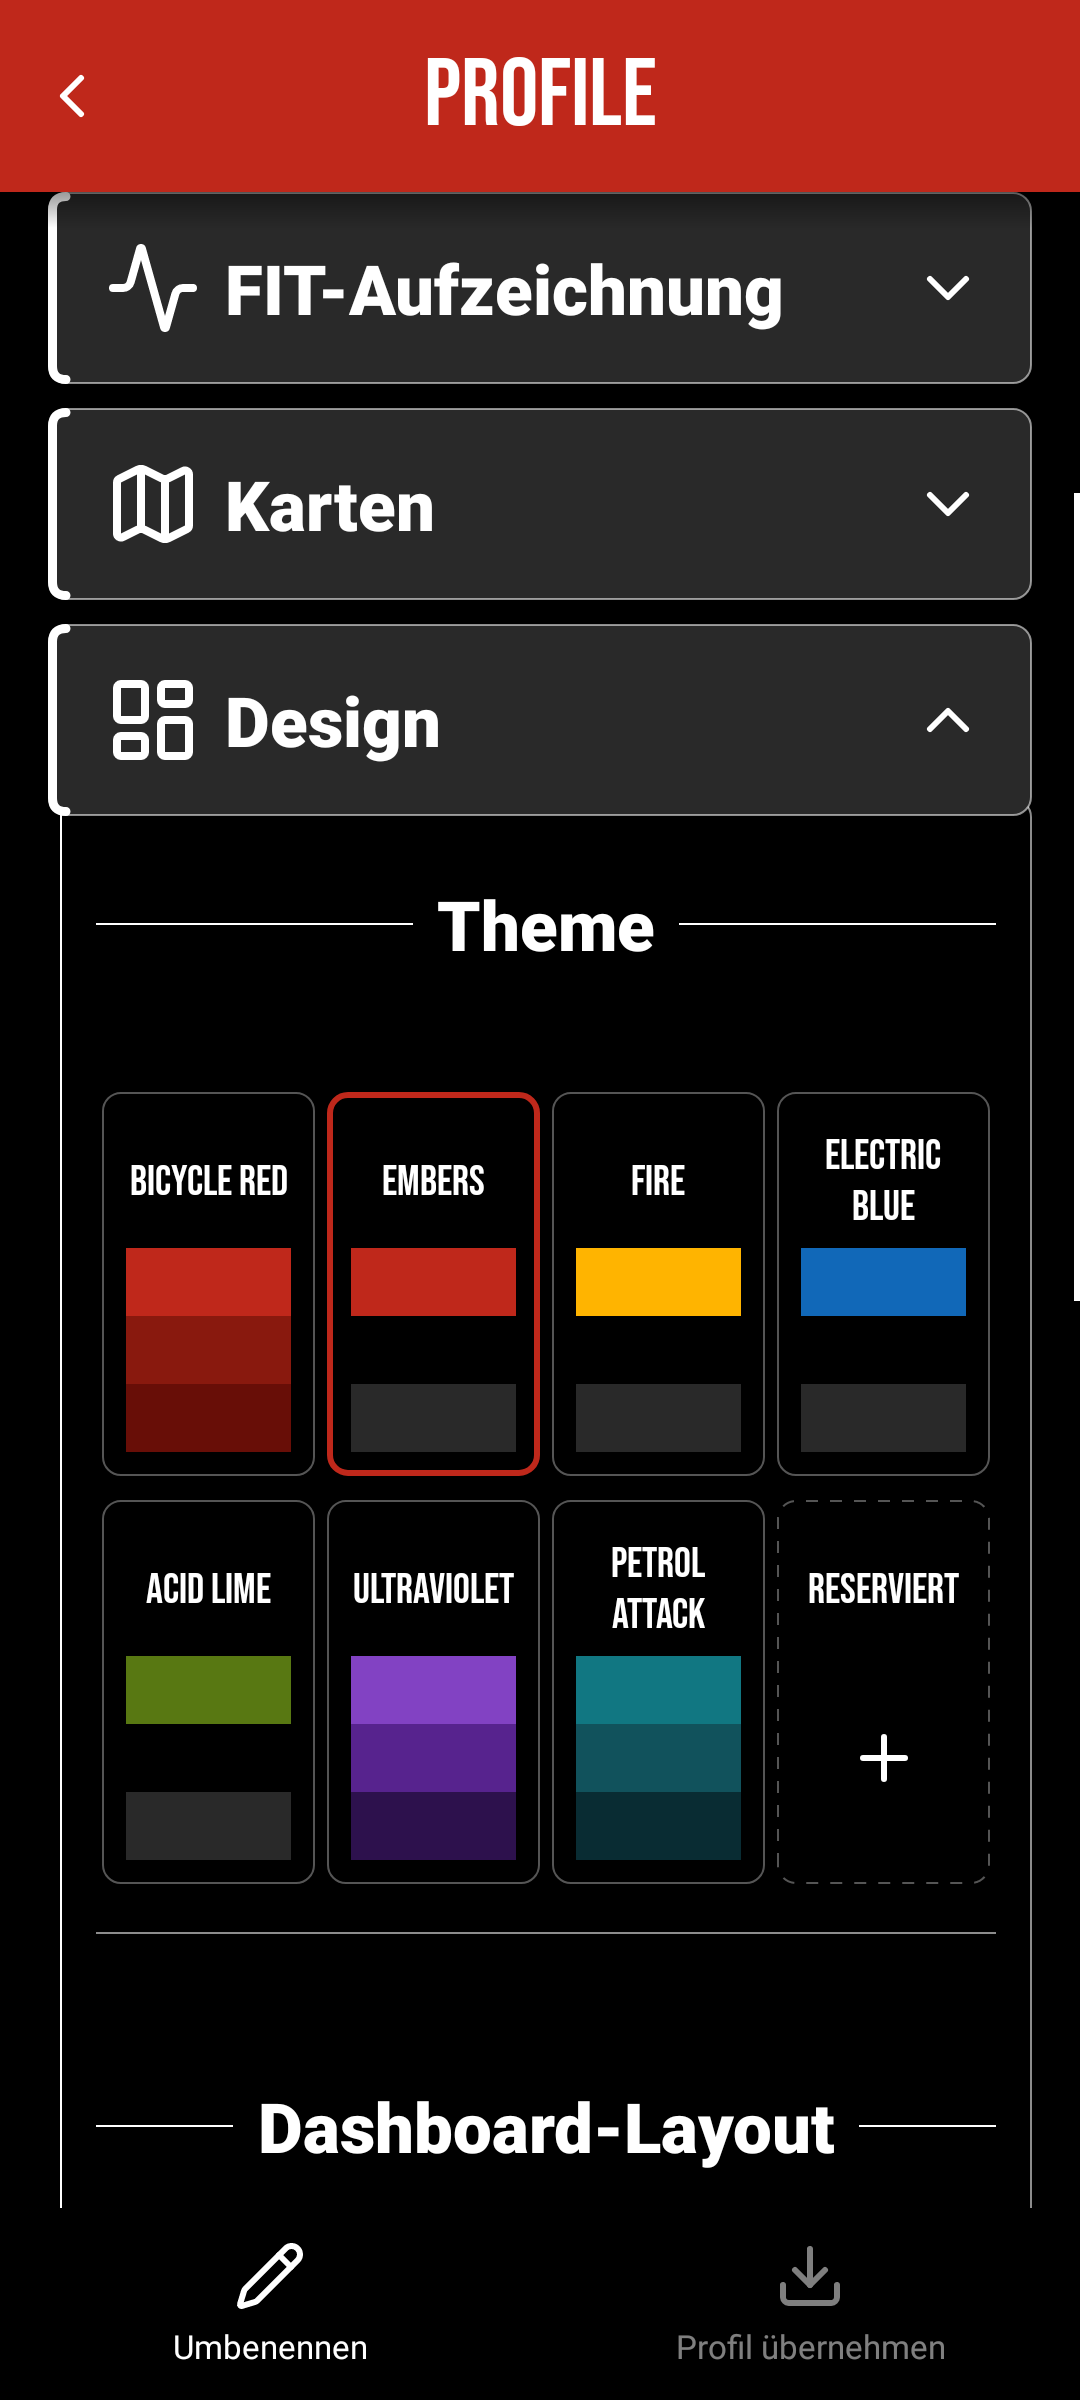
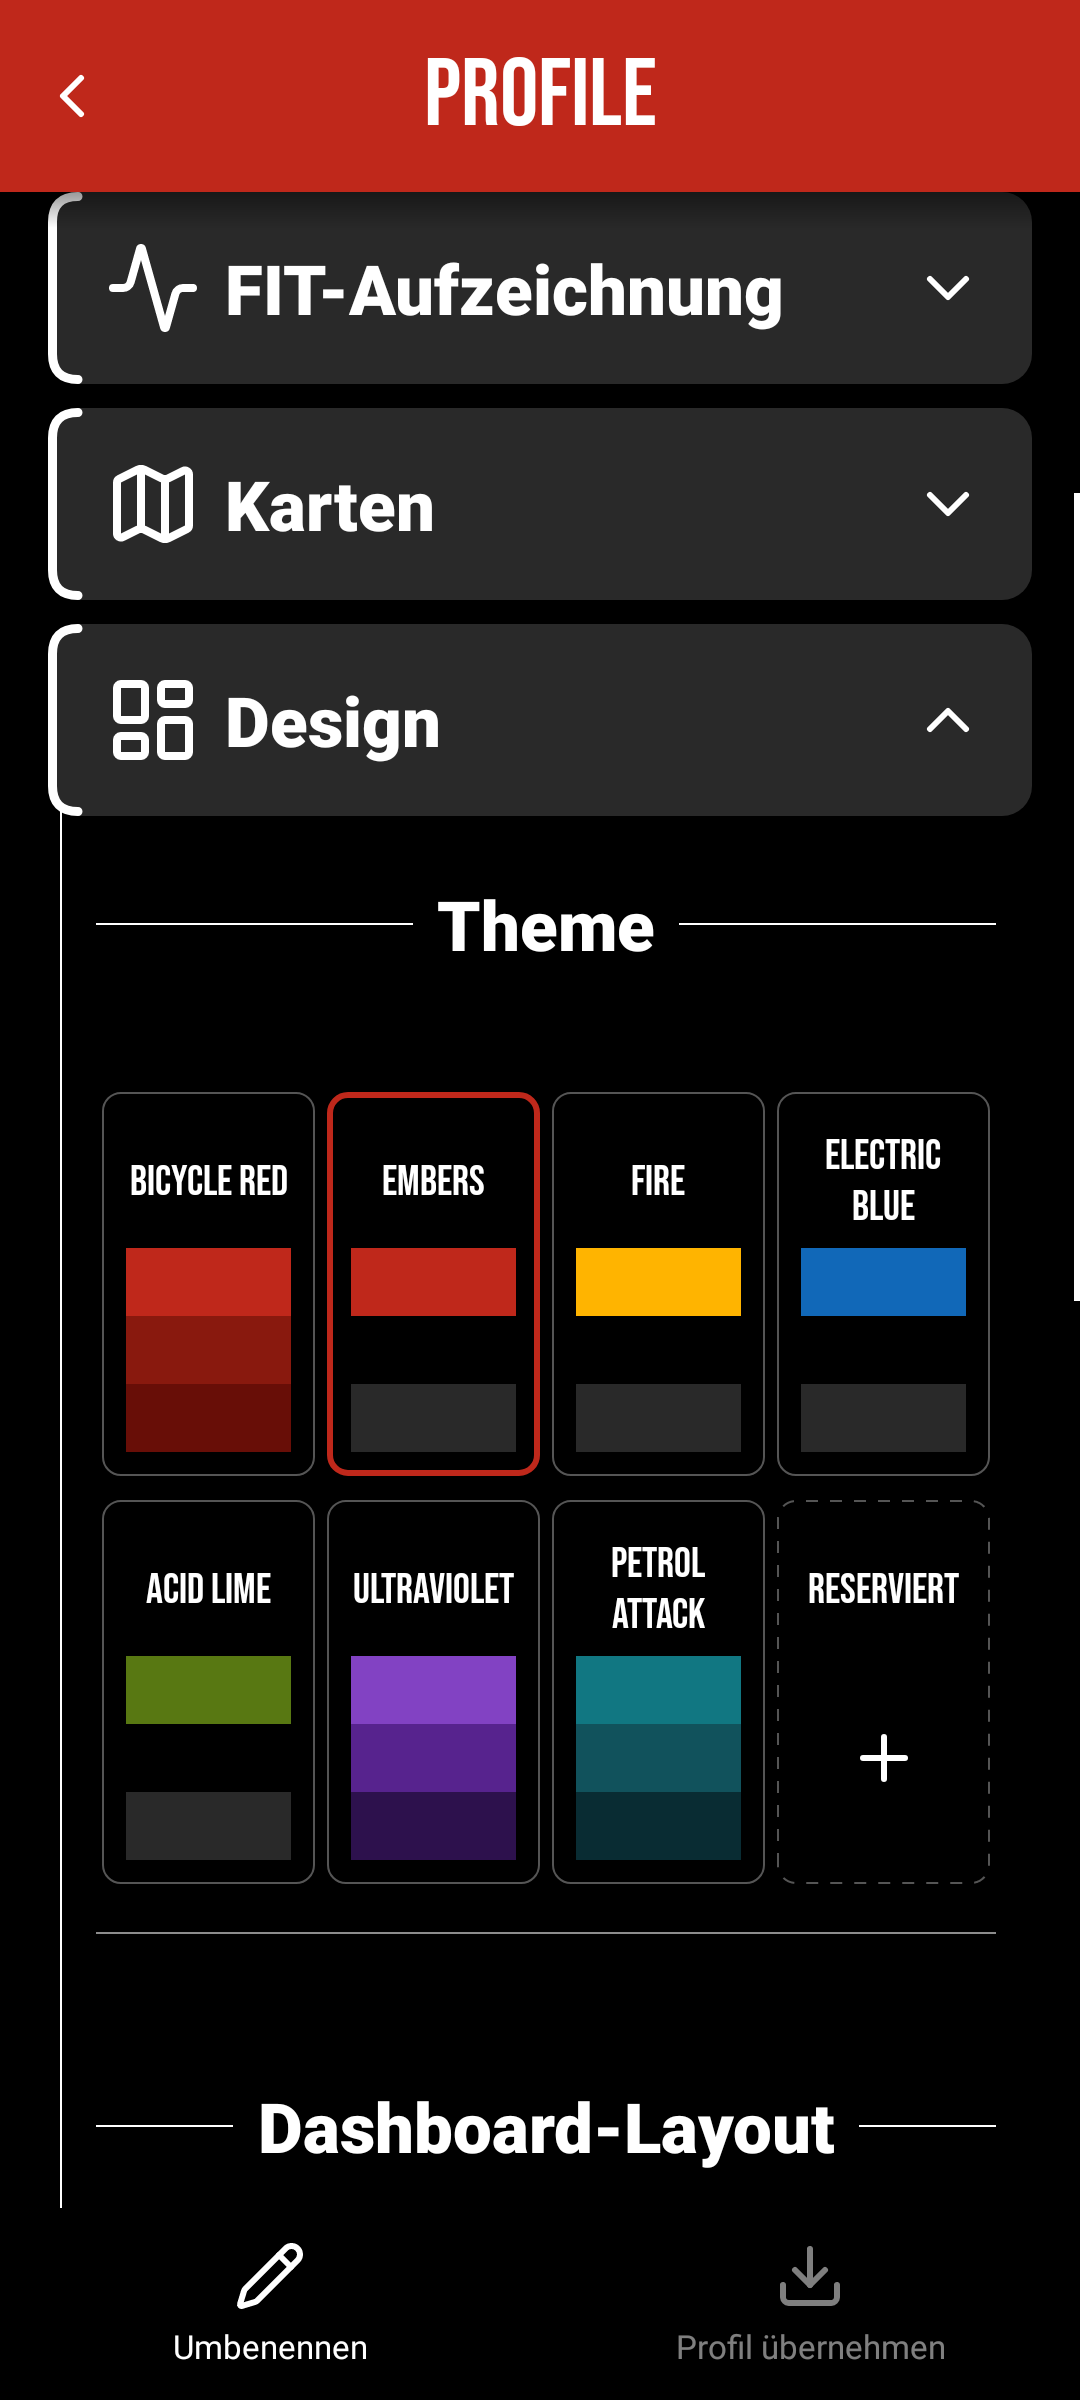
Refine profile accordion contours and simplify Indoor and map labels

Changed region(s): [[0.0306, 0.1562, 0.0917, 0.1875]]

diff --git a/app/src/main/java/de/bcycle/app/ProfileAccordion.kt b/app/src/main/java/de/bcycle/app/ProfileAccordion.kt
@@ -1,7 +1,6 @@
 package de.bcycle.app
 
 import android.content.Context
-import android.graphics.drawable.GradientDrawable
 import android.view.Gravity
 import android.view.View
 import android.view.ViewGroup
@@ -19,7 +18,6 @@ internal class ProfileAccordion(context:Context,themes:ThemeManager,title:String
     val header=LinearLayout(context)
     var isOpen=initiallyOpen;private set
     private fun dp(n:Int)=BicycleDesign.dp(context,n)
-    private fun borderColor(color:Int)=(color and 0x00ffffff) or ((android.graphics.Color.alpha(color)*BicycleDesign.dividerAlpha).toInt() shl 24)
     init {
         orientation=VERTICAL;tag="profile_group_$key"
         header.apply {
@@ -49,8 +47,8 @@ internal class ProfileAccordion(context:Context,themes:ThemeManager,title:String
             })
             clipToOutline=true
             BicycleComponents.bindTheme(this,themes) { tokens ->
-                background=ProfileAccordionHeader(tokens.tertiary,tokens.foreground,borderColor(tokens.foreground),
-                    dp(BicycleDesign.inputRadius).toFloat(),BicycleDesign.linePixels(context).toFloat(),dp(BicycleDesign.profileAccordionLeadingWidth).toFloat())
+                background=ProfileAccordionHeader(tokens.tertiary,tokens.foreground,
+                    dp(BicycleDesign.profileAccordionRadius).toFloat(),dp(BicycleDesign.profileAccordionLeadingWidth).toFloat())
                 chevron.setImageDrawable(BicycleIcons.drawable(context,BicycleIcon.Expand,tokens.foreground))
             }
             setOnClickListener { show(!isOpen);changed(isOpen) }
@@ -58,21 +56,16 @@ internal class ProfileAccordion(context:Context,themes:ThemeManager,title:String
         frame.apply {
             tag="profile_content_$key"
             // Draw the body behind the overlapping rounded header, never over it.
-            translationZ=-1f;clipToPadding=false;clipToOutline=true
-            foregroundGravity=Gravity.START or Gravity.FILL_VERTICAL
-            setPadding(dp(BicycleDesign.sectionHeaderPadding),dp(BicycleDesign.inputRadius+BicycleDesign.controlGap),dp(BicycleDesign.sectionHeaderPadding),dp(BicycleDesign.sectionHeaderPadding))
+            translationZ=-1f;clipToPadding=false
+            setPadding(dp(BicycleDesign.sectionHeaderPadding),dp(BicycleDesign.profileAccordionRadius+BicycleDesign.controlGap),dp(BicycleDesign.sectionHeaderPadding),dp(BicycleDesign.sectionHeaderPadding))
             addView(body,FrameLayout.LayoutParams(-1,-2))
             (body as? ViewGroup)?.apply { clipChildren=false;clipToPadding=false }
             BicycleComponents.bindTheme(this,themes) { tokens ->
-                foreground=GradientDrawable().apply { setColor(tokens.foreground);setSize(BicycleDesign.linePixels(context),1) }
-                background=GradientDrawable().apply {
-                    setColor(tokens.secondary);cornerRadius=dp(BicycleDesign.inputRadius).toFloat()
-                    setStroke(BicycleDesign.linePixels(context),borderColor(tokens.foreground))
-                }
+                setBackgroundColor(tokens.secondary)
             }
         }
         addView(header,LayoutParams(-1,-2))
-        addView(frame,LayoutParams(-1,-2).apply { marginStart=dp(BicycleDesign.profileAccordionBodyInset);topMargin=-dp(BicycleDesign.inputRadius) })
+        addView(frame,LayoutParams(-1,-2).apply { marginStart=dp(BicycleDesign.profileAccordionBodyInset);topMargin=-dp(BicycleDesign.profileAccordionRadius) })
         addView(end,LayoutParams(-1,0))
         fun scope(view:View) {
             if(view is BicycleSectionHeader) view.sectionEnd=end
@@ -80,6 +73,15 @@ internal class ProfileAccordion(context:Context,themes:ThemeManager,title:String
         }
         scope(body)
         show(initiallyOpen)
+    }
+    /** The parent draws one continuous axis over the body, gap and adjoining header curves. */
+    val connectionX get()=dp(BicycleDesign.profileAccordionBodyInset)+BicycleDesign.linePixels(context)/2f
+    fun connectionY(bottom:Boolean):Float {
+        val leading=dp(BicycleDesign.profileAccordionLeadingWidth)/2f
+        val radius=dp(BicycleDesign.profileAccordionRadius).toFloat()
+        val t=1f-kotlin.math.sqrt(((connectionX-leading)/(radius-leading)).coerceIn(0f,1f))
+        val y=leading+(radius-leading)*t*t
+        return header.top+if(bottom) header.height-y else y
     }
     private fun show(open:Boolean) {
         isOpen=open;frame.visibility=if(open) VISIBLE else GONE
@@ -90,15 +92,15 @@ internal class ProfileAccordion(context:Context,themes:ThemeManager,title:String
     }
 }
 
-/** Rounded leading accent is part of the outline rather than a square child strip. */
-private class ProfileAccordionHeader(private val fill:Int,private val foreground:Int,private val border:Int,
-    private val radius:Float,private val rule:Float,private val leading:Float):android.graphics.drawable.Drawable() {
+/** Rounded fill and a curved leading accent; deliberately no surrounding outline. */
+private class ProfileAccordionHeader(private val fill:Int,private val foreground:Int,
+    private val radius:Float,private val leading:Float):android.graphics.drawable.Drawable() {
     private val paint=android.graphics.Paint(android.graphics.Paint.ANTI_ALIAS_FLAG)
     private val rect=android.graphics.RectF()
     private val accent=android.graphics.Path()
     private var opacity=255
     override fun onBoundsChange(bounds:android.graphics.Rect) {
-        rect.set(bounds);rect.inset(rule/2,rule/2)
+        rect.set(bounds)
         val x=bounds.left+leading/2;val top=bounds.top+leading/2;val bottom=bounds.bottom-leading/2
         accent.reset();accent.moveTo(bounds.left+radius,top)
         accent.quadTo(x,top,x,bounds.top+radius)
@@ -109,8 +111,7 @@ private class ProfileAccordionHeader(private val fill:Int,private val foreground
         fun color(value:Int) { paint.color=value;paint.alpha=android.graphics.Color.alpha(value)*opacity/255 }
         paint.style=android.graphics.Paint.Style.FILL;color(fill)
         canvas.drawRoundRect(rect,radius,radius,paint)
-        paint.style=android.graphics.Paint.Style.STROKE;paint.strokeWidth=rule;color(border)
-        canvas.drawRoundRect(rect,radius,radius,paint)
+        paint.style=android.graphics.Paint.Style.STROKE
         paint.strokeWidth=leading;paint.strokeCap=android.graphics.Paint.Cap.ROUND;color(foreground)
         canvas.drawPath(accent,paint)
     }

diff --git a/app/src/main/java/de/bcycle/app/BikesView.kt b/app/src/main/java/de/bcycle/app/BikesView.kt
@@ -15,6 +15,9 @@ internal class BikesView(context: Context, private val runtime: RideRuntime,
     private val confirmDelete:(Int,String,()->Unit)->Unit = { _,_,_ -> },
     private val additionalSections:(()->List<Pair<Int,View>>)?=null, private val editDashboard:()->Unit={}) : LinearLayout(context) {
     private val themes = runtime.themes
+    private val profileConnector=android.graphics.Paint(android.graphics.Paint.ANTI_ALIAS_FLAG).apply {
+        strokeWidth=BicycleDesign.linePixels(context).toFloat()
+    }
     private val expanded=mutableSetOf(R.string.profiles_bike)
     private var copyPopup:ListPopupWindow?=null
     private val copyAction:BicycleFooterAction=BicycleFooterAction(context,themes,BicycleIcon.Import,context.getString(R.string.profiles_copy)) {
@@ -69,7 +72,24 @@ internal class BikesView(context: Context, private val runtime: RideRuntime,
     private lateinit var searchResults: LinearLayout
     private lateinit var searchStatus: TextView
     private fun dp(n: Int) = BicycleDesign.dp(context,n)
-    init { orientation = VERTICAL; clipToPadding = false; tag = "bikes_manager"; setPadding(dp(BicycleDesign.horizontalPadding),dp(BicycleDesign.verticalPadding),dp(BicycleDesign.horizontalPadding),0); rebuild() }
+    init {
+        if(additionalSections!=null) BicycleComponents.bindTheme(this,themes) { profileConnector.color=it.foreground;invalidate() }
+        orientation = VERTICAL; clipToPadding = false; tag = "bikes_manager"; setPadding(dp(BicycleDesign.horizontalPadding),dp(BicycleDesign.verticalPadding),dp(BicycleDesign.horizontalPadding),0); rebuild() }
+    override fun dispatchDraw(canvas:android.graphics.Canvas) {
+        super.dispatchDraw(canvas)
+        if(additionalSections==null) return
+        var previous:ProfileAccordion?=null
+        for(index in 0 until childCount) {
+            val group=getChildAt(index) as? ProfileAccordion ?: continue
+            previous?.let { if(it.isOpen) drawConnector(canvas,it,group.top+group.connectionY(bottom=false)) }
+            previous=group
+        }
+        previous?.let { if(it.isOpen) drawConnector(canvas,it,it.bottom.toFloat()) }
+    }
+    private fun drawConnector(canvas:android.graphics.Canvas,group:ProfileAccordion,end:Float) {
+        val x=group.left+group.connectionX
+        canvas.drawLine(x,group.top+group.connectionY(bottom=true),x,end,profileConnector)
+    }
     private fun text(id: Int, heading: Boolean = false) = BicycleComponents.text(context,themes,context.getString(id),heading)
     private fun section(id: Int) {
         if(additionalSections==null) BicycleForm.section(this,themes,id)

diff --git a/app/src/test/java/de/bcycle/app/ProfileAccordionTest.kt b/app/src/test/java/de/bcycle/app/ProfileAccordionTest.kt
@@ -61,6 +61,8 @@ class ProfileAccordionTest {
             group.header.draw(Canvas(bitmap))
             assertEquals(foreground,bitmap.getPixel(1,bitmap.height/2))
             assertEquals(themes.active.tokens.tertiary,bitmap.getPixel(bitmap.width/2,bitmap.height-15))
+            assertEquals(themes.active.tokens.tertiary,bitmap.getPixel(bitmap.width-1,bitmap.height/2))
+            assertEquals(themes.active.tokens.tertiary,bitmap.getPixel(bitmap.width/2,bitmap.height-1))
             bitmap.recycle()
             group.header.performClick();assertFalse(group.isOpen);assertEquals(View.GONE,body.visibility)
             group.header.performClick();assertTrue(group.isOpen);assertEquals(View.VISIBLE,body.visibility)
@@ -113,6 +115,21 @@ class ProfileAccordionTest {
             root.findViewWithTag<View>("profile_accordion_profiles_bike").performClick()
             root.findViewWithTag<View>("profile_accordion_profiles_design").performClick()
             shadowOf(Looper.getMainLooper()).idle();measure(root,1080,2400)
+            assertEquals("Indoor",a.getString(R.string.bikes_type_indoor))
+            assertFalse(testDescendants(root).filterIsInstance<android.widget.TextView>().any { it.text==a.getString(R.string.ui_map_source) })
+            val owner=root.findViewWithTag<BikesView>("bikes_manager")
+            val design=root.findViewWithTag<ProfileAccordion>("profile_group_profiles_design")
+            val next=root.findViewWithTag<ProfileAccordion>("profile_group_training_help_title")
+            assertTrue(next.top>design.bottom)
+            val bridge=Bitmap.createBitmap(owner.width,4,Bitmap.Config.ARGB_8888)
+            val bridgeCanvas=Canvas(bridge)
+            bridgeCanvas.drawColor(r.themes.active.tokens.secondary)
+            bridgeCanvas.translate(0f,-((design.bottom+next.top)/2f-2f))
+            owner.draw(bridgeCanvas)
+            val axis=(design.left+design.connectionX).toInt()
+            assertEquals(r.themes.active.tokens.foreground,bridge.getPixel(axis,2))
+            assertEquals(r.themes.active.tokens.secondary,bridge.getPixel(axis+12,2))
+            bridge.recycle()
             val scroll=testDescendants(root).filterIsInstance<BicycleStickyScrollView>().single()
             scroll.scrollTo(0,top(root.findViewWithTag("profile_accordion_ui_recording_title"),scroll))
             assertNotNull(root.findViewWithTag<View>("bicycle_fullscreen_footer").findViewWithTag<View>("profile_copy"))

diff --git a/app/src/main/java/de/bcycle/app/MainActivity.kt b/app/src/main/java/de/bcycle/app/MainActivity.kt
@@ -798,8 +798,8 @@ class MainActivity : Activity() {
     private fun mapControls():LinearLayout {
         val slot=runtime.bikes.activeSlot
         val root = column()
-        root.addView(label(getString(R.string.ui_map_source), BicycleDesign.inputSp))
         val source = Spinner(settingsContext).apply {
+            contentDescription=getString(R.string.ui_map_source)
             adapter = ArrayAdapter(settingsContext, android.R.layout.simple_spinner_dropdown_item, MapSource.entries.map { it.label(this@MainActivity) })
             setSelection(MapSource.decode(preferences.getString("mapSource", null)).ordinal); root.addView(this)
         }

diff --git a/app/src/main/java/de/bcycle/app/BicycleDesign.kt b/app/src/main/java/de/bcycle/app/BicycleDesign.kt
@@ -77,6 +77,7 @@ object BicycleDesign {
     const val sectionRuleDp = .75f
     const val pageContentGap = 16
     const val sectionContentGap = 16
+    const val profileAccordionRadius = 10
     const val profileAccordionHeaderHeight = 64
     const val profileAccordionLeadingWidth = 3
     const val profileAccordionBodyInset = 4

diff --git a/AGENTS.md b/AGENTS.md
@@ -210,4 +210,4 @@ Kachel-Umsortierung: Bike-Manager und Dashboard-Seiten in Design & UI verwenden 
 
 Fahrradbezogene Profile: Hauptmenü „Profile“ bündelt Bikes, Karten und Design & UI. BikeProfileStore hält stabile Bike-IDs und BikeUiConfigurationStore projiziert das aktive Profil in die bestehenden Preferences. Migration übernimmt die bisherigen gemeinsamen Design-/Kartenwerte für alle vorhandenen Profile; danach beim Profilwechsel alten UI-Stand sichern und neuen vollständig einschließlich fehlender Schlüssel herstellen. Konten, Upload-Dienste, Anbieter-Zugangsdaten, Fahrerprofil und Benachrichtigungen bleiben global. Profile-Seite: Fahrradkacheln, Accordions Bike/FIT-Aufzeichnung/Karten/Design/Trainingshilfe, darunter Dashboard bearbeiten; fachlicher Footer Umbenennen/Profil übernehmen/Profil löschen. Bike-Name im Accordion als normale antippbare 23-sp-/900-Black-Überschrift, kein Sticky Header. Profilübernahme kopiert Bike-/FIT-/UI-/Karteneinstellungen, bewahrt aber Ziel-ID, Zielname, Foto sowie sämtliche Sensorzuordnungen (Adressen und Gerätenamen). Quelle unverändert lassen. Wechsel/Übernahme/Löschen während Aufnahme oder Speichern sperren; letzteres Profil erhalten. Asynchrone Controls dürfen nach Profilwechsel oder Rebuild keine alten Werte ins neue Profil schreiben. Einstellungen-Sicherung behält ihre bisherigen auswählbaren Bereiche für das aktive Profil; keine Gerätezuordnungen oder Kontoschlüssel in UI-Snapshots aufnehmen.
 
-Profilseiten-Prototyp (nur hier): Die fünf Haupt-Accordions verwenden ProfileAccordion mit abgerundetem TERTIARY-Header, Kategorie-Icon (32 dp), 23-sp-/900-Black-Titel und Chevron rechts (auf/zu). FOREGROUND-Kontur über zentrale Linienbreite, betonte linke Kante 3 dp; geöffneter SECONDARY-Inhalt ist um 4 dp eingerückt und ohne Lücke mit dem Header verbunden. BicycleSectionHeader.inlineRules zeigt zentrierte Unterüberschriften mit horizontalen FOREGROUND-Linien auf Texthöhe. Radtyp, Sensoren, FIT-Hauptquelle und Aufzuzeichnende Werte sind Sticky-Kategorien, ebenso bestehende Design-Kategorien. Jeder Sticky Header erhält sectionEnd auf der Grenze seines ProfileAccordion; geschlossene/nachfolgende Hauptbereiche dürfen nie überlagert werden. Lange Überschriften dürfen umbrechen, die Schriftgröße bleibt gleich. Untergeordnete FIT-Accordions sowie andere Screens behalten die normale Dropdown-Typografie/Abschnittsoptik. Funktionen, Profil-Persistenz und Footer unverändert lassen.
+Profilseiten-Prototyp (nur hier): Die fünf Haupt-Accordions verwenden ProfileAccordion mit abgerundetem TERTIARY-Header, Kategorie-Icon (32 dp), 23-sp-/900-Black-Titel und Chevron rechts (auf/zu). Keine umlaufende Kontur am Header oder Inhalt; Rundung 10 dp, geschwungene linke FOREGROUND-Kante 3 dp. Geöffneter SECONDARY-Inhalt ist um 4 dp eingerückt; eine vertikale Linie in zentraler Linienbreite verbindet die linke Headerkurve lückenlos mit der nächsten Headerkurve. BicycleSectionHeader.inlineRules zeigt zentrierte Unterüberschriften mit horizontalen FOREGROUND-Linien auf Texthöhe. Radtyp, Sensoren, FIT-Hauptquelle und Aufzuzeichnende Werte sind Sticky-Kategorien, ebenso bestehende Design-Kategorien. Jeder Sticky Header erhält sectionEnd auf der Grenze seines ProfileAccordion; geschlossene/nachfolgende Hauptbereiche dürfen nie überlagert werden. Lange Überschriften dürfen umbrechen, die Schriftgröße bleibt gleich. Untergeordnete FIT-Accordions sowie andere Screens behalten die normale Dropdown-Typografie/Abschnittsoptik. Funktionen, Profil-Persistenz und Footer unverändert lassen.

diff --git a/docs/bicycle-profiles.md b/docs/bicycle-profiles.md
@@ -13,7 +13,7 @@ Seit der Profil-Integration bündelt **Einstellungen → Profile** die bisherige
 
 ## Hierarchie-Prototyp auf der Profilseite
 
-Die fünf Hauptbereiche verwenden `ProfileAccordion`: Kategorie-Icon links, 23 sp/Roboto 900 Black, Chevron rechts, abgerundeter TERTIARY-Kopf mit FOREGROUND-Kontur und betonter linker Kante. Der geöffnete Inhalt bleibt in einem verbundenen SECONDARY-Rahmen, links um 4 dp eingerückt. Lange Überschriften behalten ihre Schriftgröße und dürfen umbrechen.
+Die fünf Hauptbereiche verwenden `ProfileAccordion`: Kategorie-Icon links, 23 sp/Roboto 900 Black, Chevron rechts, TERTIARY-Kopf mit 10-dp-Rundung und geschwungener, 3 dp breiter linker FOREGROUND-Kante. Kopf und Inhalt haben keinen umlaufenden Rahmen. Eine dünne vertikale FOREGROUND-Linie begleitet den geöffneten SECONDARY-Inhalt, links um 4 dp eingerückt, und schließt ohne Lücke an die linke Kurve des nächsten Hauptbereichs an. Lange Überschriften behalten ihre Schriftgröße und dürfen umbrechen.
 
 Unterüberschriften stehen zentriert zwischen horizontalen Linien auf Texthöhe. **Radtyp**, **Sensoren**, **FIT-Hauptquelle** und **Aufzuzeichnende Werte** sind nun ebenfalls Sticky Header. Die bisherigen Design-Unterüberschriften verwenden dieselbe Optik. Jeder Header ist durch `sectionEnd` auf das Ende seines eigenen Accordions begrenzt, auch wenn der folgende Hauptbereich geschlossen bleibt. Innerhalb der FIT-Unteraccordions bleibt die dezente Standarddarstellung erhalten. Andere Screens werden nicht umgestellt.
 
